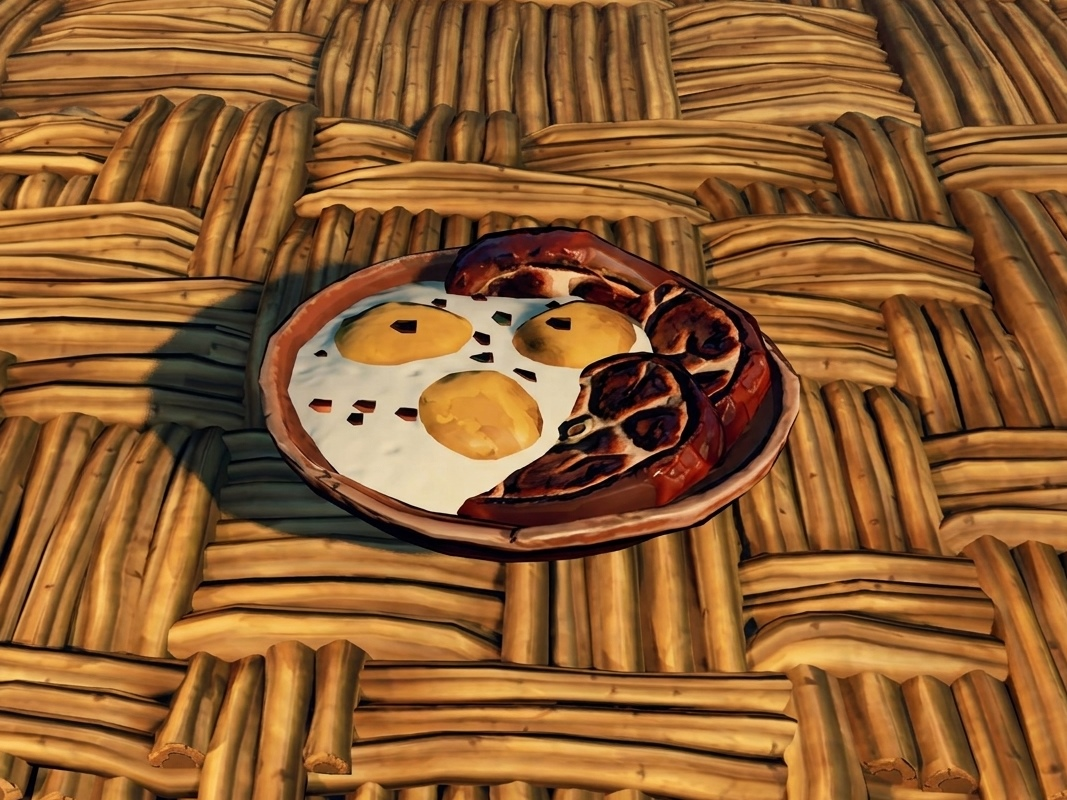
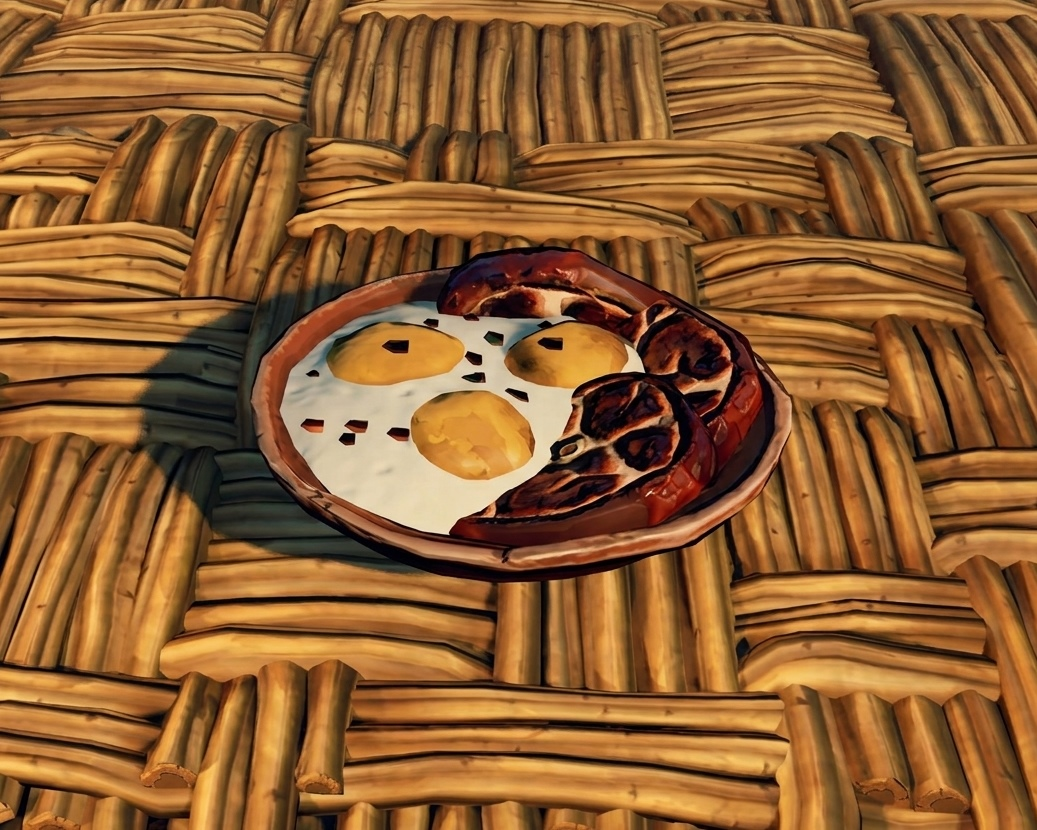
Recrop Bacon and Eggs photo to match the 5:4 tiles

diff --git a/index.html b/index.html
@@ -491,7 +491,7 @@ footer a:link, footer a:visited {
       </div>
     </a>
     <a href="img/Windrose_BaconAndEggs.jpg" class="item" data-lightbox data-new data-dish="savory" data-visual="3d">
-      <img src="img/Windrose_BaconAndEggs.jpg" alt="" width="1067" height="800">
+      <img src="img/Windrose_BaconAndEggs.jpg" alt="" width="1037" height="830">
       <div class="info">
         <h2>Bacon and Eggs</h2>
         <p>Windrose</p>
